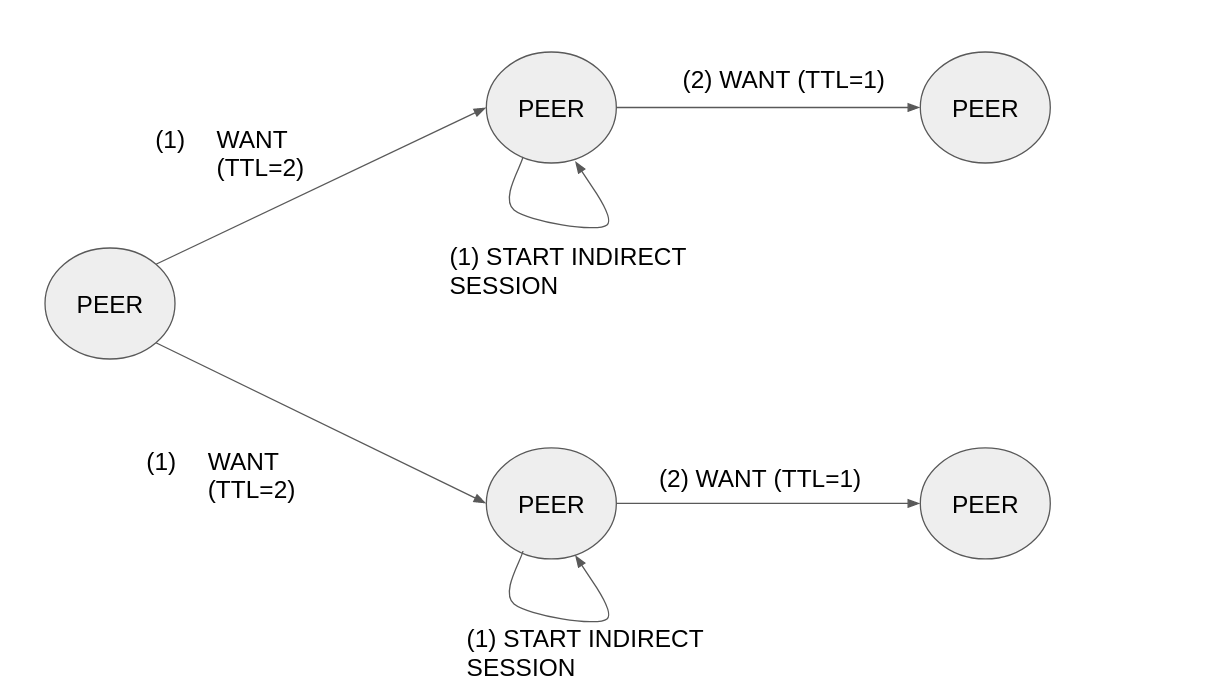
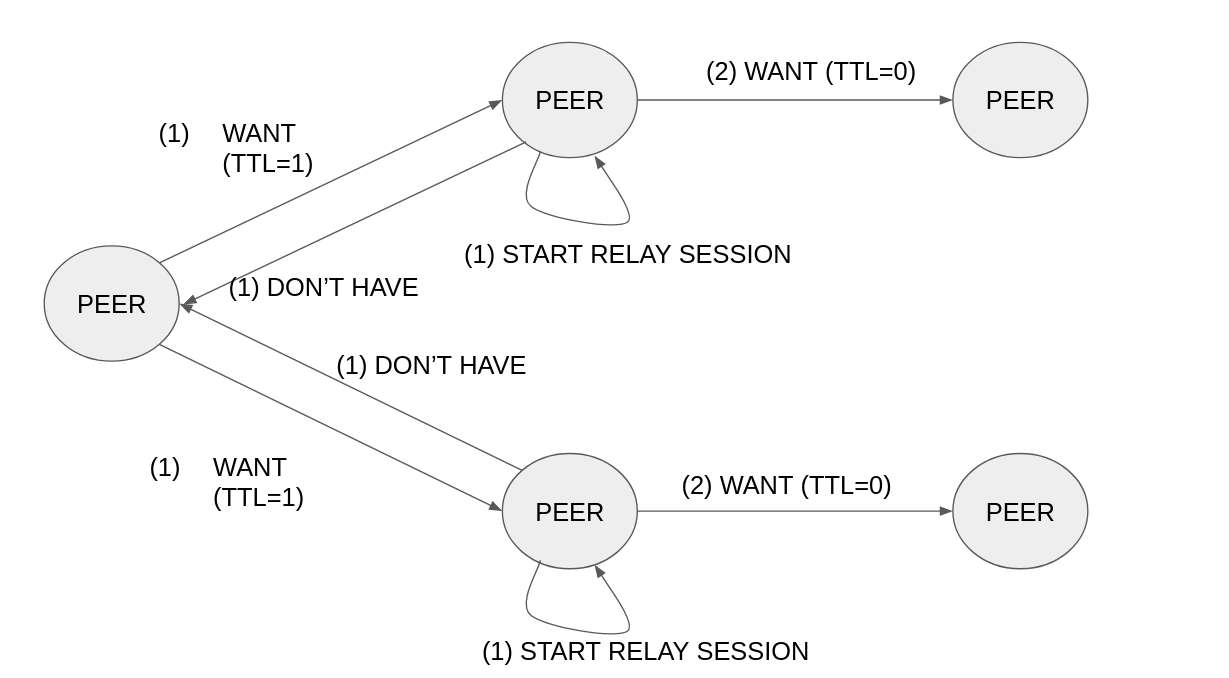
Updated figures

diff --git a/beyond-bitswap/rfc/rfcBBL102.md b/beyond-bitswap/rfc/rfcBBL102.md
@@ -31,7 +31,7 @@ Initially, the protocol will be designed using symmetric routing, and will explo
 Again, this proposal should include schemes to avoid flooding attacks and the forgery of responses. It may be sensible to include networking information also in the request to allow easy discovery to forward responses X-hop away.
 
 ## Implementation plan
-- [X] Include TTL in WANT messages. Nodes receiving the WANT message track the session using indirect sessions, reduce in one the TTL of the WANT message and forward it to its connected peers. Duplicate WANT messages with lower or equal TTL should be discarded to avoid loops (higher TTLs could represent request updates). WANT sessions should be identified at least with the following tuple: {SOURCE, WANT_ID} so nodes know to whom it needs to send discovered blocks. (See figures below for the proposed implementation of the symmetric approach).
+- [X] Include TTL in WANT messages. Nodes receiving the WANT message track the session using relay sessions, reduce in one the TTL of the WANT message and forward it to its connected peers. Duplicate WANT messages with lower or equal TTL should be discarded to avoid loops (higher TTLs could represent request updates). WANT sessions should be identified at least with the following tuple: {SOURCE, WANT_ID} so nodes know to whom it needs to send discovered blocks. (See figures below for the proposed implementation of the symmetric approach).
 
 - [ ] Test the performance and bandwidth overhead of this scheme compared to plain Bitswap for different values of TTL.
 
@@ -45,15 +45,15 @@ Again, this proposal should include schemes to avoid flooding attacks and the fo
 enable the forwarding of exchange requests to peers TTL+1 hops away.
 * Bitswap is set with a defualt TTL of 1, so corresponding messages will only be forwarded
 to nodes two hops away.
-* Sessions now include a TTL parameter to determine how far their WANT messages can go. Sessions started within the peer (because the peer wants a block) are considered `direct`, while the ones triggered from the reception of a WANT mesages with enough TTLs are referred as `indirect` (the peer is doing the work on behalf of another peer and it is not explicitly interested in the block).An `indirect` flag has also been added to sessions in case in the future a different strategy want
-to be implemented for indirect sessions (like the use of a degree to limit the number of WANT messages broadcasted to connected nodes to prevent flooding the network). Currently direct and indirect sessions follow the exact same strategy for block discovery and transmission.
+* Sessions now include a TTL parameter to determine how far their WANT messages can go. Sessions started within the peer (because the peer wants a block) are considered `direct`, while the ones triggered from the reception of a WANT mesages with enough TTLs are referred as `relay` (the peer is doing the work on behalf of another peer and it is not explicitly interested in the block). An `indirect` flag has also been added to sessions in case in the future a different strategy want
+to be implemented for relay sessions (like the use of a degree to limit the number of WANT messages broadcasted to connected nodes to prevent flooding the network). Currently direct and relay sessions follow the exact same strategy for block discovery and transmission.
 
-* All the logic around indirect sessions is done in `engine.go`:
-    - The engine tracks the number of indirect sessions opened through an `indirectSession` registry.
-    - Whenever a peer receives a WANT message from which it doesn't have the block and its TTL is not zero, it sends a DONT_HAVE right away, and it triggers a new indirect sessions for those WANT messages with TTL-1.
-    - Whenever a new block or HAVE messages are received in an intermediate node for an active indirect session, these messages are forwarded to the source (the initial requester). This action updates the DONT_HAVE status of the intermediate node so it is again included in the session. 
-        - _We need to be careful, in the current implementation blocks from indirect sessions are stored in the datastore for convenience, but they should be removed once all the interested indirect sessions for the block are closed and they have been successfully forwarded to avoid peers storing content they didn't explicitly requested._
-    - When receiving a HAVE the indirect session will automatically send the WANT-BLOCK to the corresponding peers, we have identified the interest from every peer (including direct ones) so when a peer receives a block for an indirect file it will automatically forward it to the source (there is no need to forward interest for WANT-BLOCKS because this is automatically managed withing the indirect sessions). Indirect sessions work in the same as direct sessions in this first implementation.
+* All the logic around relay sessions is done in `engine.go`:
+    - The engine tracks the number of relay sessions opened through an `relaySession` registry.
+    - Whenever a peer receives a WANT message from which it doesn't have the block and its TTL is not zero, it sends a DONT_HAVE right away, and it triggers a new relay sessions for those WANT messages with TTL-1.
+    - Whenever a new block or HAVE messages are received in an intermediate node for an active relay session, these messages are forwarded to the source (the initial requester). This action updates the DONT_HAVE status of the intermediate node so it is again included in the session. 
+        - _We need to be careful, in the current implementation blocks from relay sessions are stored in the datastore for convenience, but they should be removed once all the interested relay sessions for the block are closed and they have been successfully forwarded to avoid peers storing content they didn't explicitly requested._
+    - When receiving a HAVE the relay session will automatically send the WANT-BLOCK to the corresponding peers, we have identified the interest from every peer (including direct ones) so when a peer receives a block for an relay file it will automatically forward it to the source (there is no need to forward interest for WANT-BLOCKS because this is automatically managed withing the relay sessions). Relay sessions work in the same as direct sessions in this first implementation.
 
 ### Symmetric approach message flows
 ![](./images/rfcBBL102-stage1.png)
